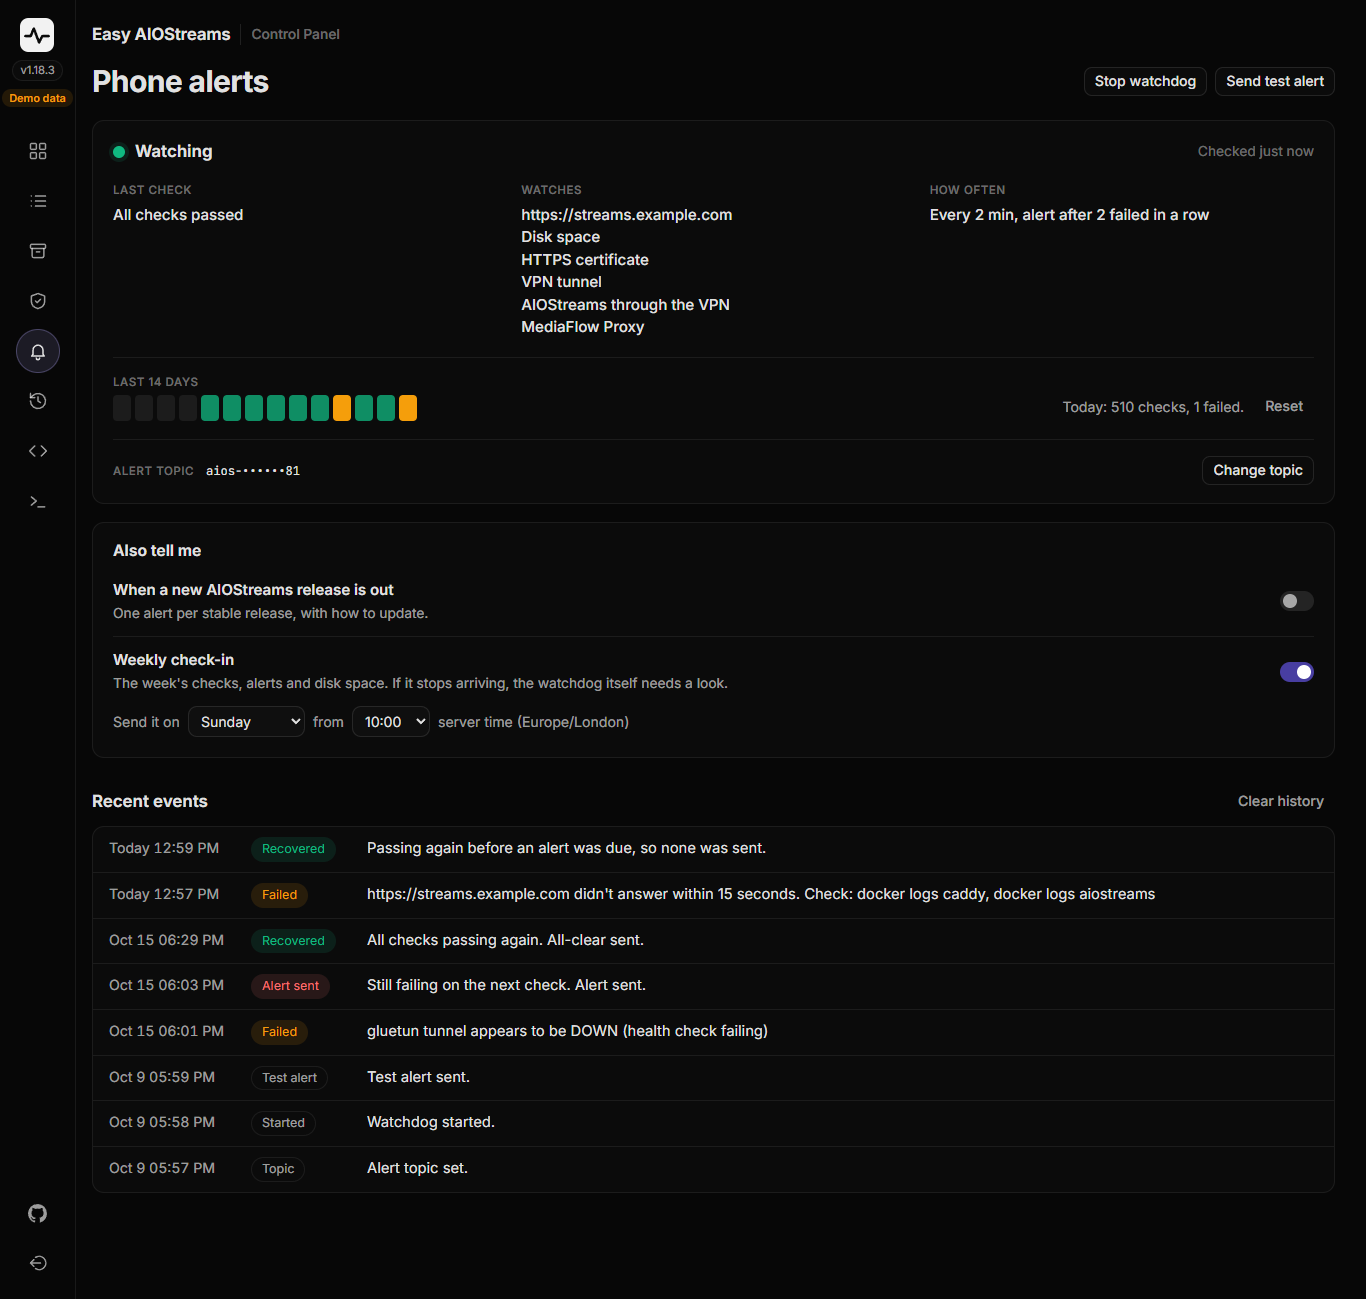
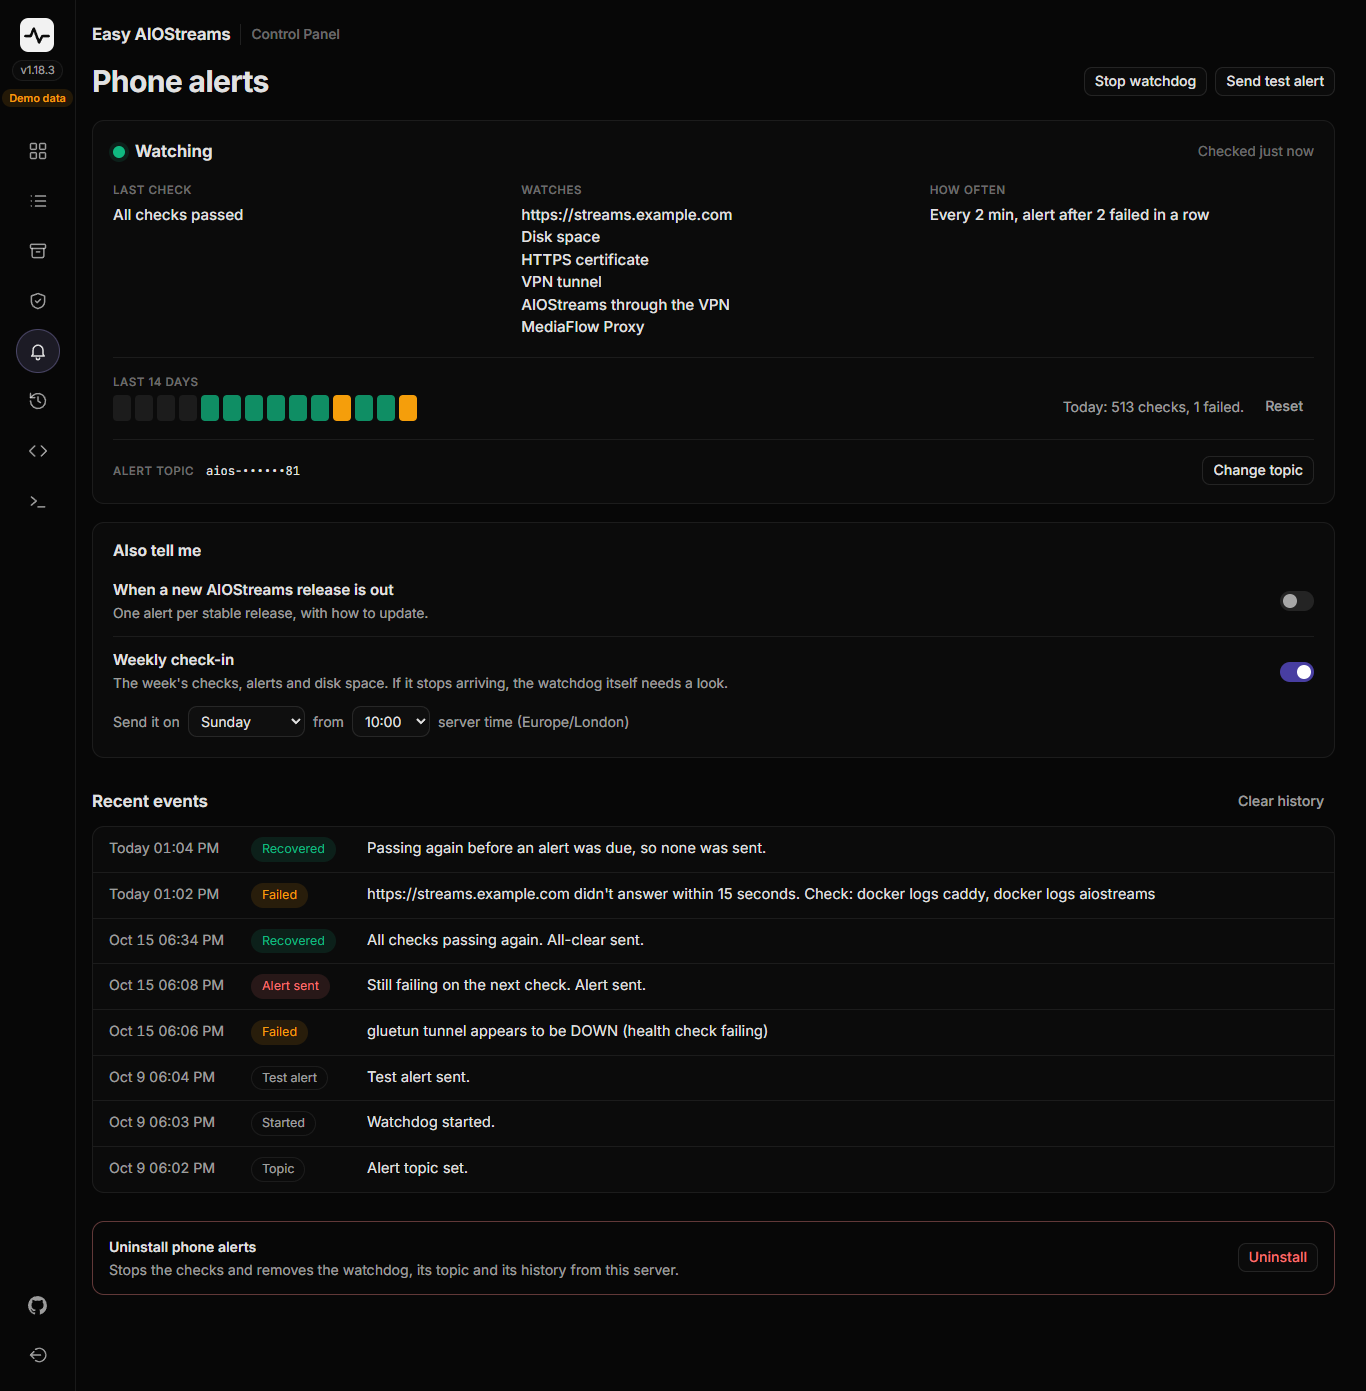
Uninstall phone alerts from the panel (panel 1.18.4)
setup-watchdog.sh gains a question-free 'uninstall' (menu option 6
without its y/N, sharing the same removal), and the Phone alerts page an
"Uninstall phone alerts" box at its foot, like the VPN page's, which
asks first. Afterwards the page leaves the rail and the Scripts tab
offers Remove for the script. Docs and alerts.png updated.

diff --git a/control-panel/web/js/alerts.js b/control-panel/web/js/alerts.js
@@ -152,6 +152,14 @@ function render(w) {
     w.events.length ? list : h("p", { class: "dim", text: "Nothing yet. Failed checks, alerts and recoveries show here." }));
   if (w.events.length > 12 && !showAll) box.append(h("button", { class: "btn small quiet", type: "button", text: `Show all ${w.events.length}`,
     onclick: () => { showAll = true; render(last); } }));
+  // Uninstall at the foot of the page, like the VPN page's
+  const un = actFor("watchdog.uninstall");
+  if (un) {
+    box.append(h("div", { class: "vpn-remove" },
+      h("div", {}, h("div", { class: "vpn-remove-title", text: "Uninstall phone alerts" }),
+        h("div", { class: "dim", text: "Stops the checks and removes the watchdog, its topic and its history from this server." })),
+      h("button", { class: "btn small danger", type: "button", text: "Uninstall", disabled: !!(st && st.busy), onclick: () => runAction(un) })));
+  }
 }
 
 // The check-in goes by the server's clock, so say which zone that is. A server

diff --git a/control-panel/web/js/actions.js b/control-panel/web/js/actions.js
@@ -101,7 +101,7 @@ export async function runAction(act, params) {
     if (res.channel && res.channel === channelNow) res.channel = null;
     params = res;
   } else if (act.confirm) {
-    const ok = await ask({ title: `${act.label}?`, body: act.confirm, confirmLabel: act.label, danger: /stop|forget|delete/i.test(act.id) });
+    const ok = await ask({ title: `${act.label}?`, body: act.confirm, confirmLabel: act.label, danger: /stop|forget|delete|uninstall/i.test(act.id) });
     if (!ok) return;
   }
   try {

diff --git a/control-panel/app/demo.py b/control-panel/app/demo.py
@@ -71,6 +71,7 @@ class DemoBackend:
         self.has_config = True
         self.removed_scripts: set[str] = set()
         self.wd_running = True
+        self.wd_configured = True
         self.wd_options = {"updates": False, "weekly": False, "weekly_day": 7, "weekly_hour": 10}
         self.wd_topic = "aios-7f3k29xq81"
         now = time.time()
@@ -147,6 +148,8 @@ class DemoBackend:
 
     def watchdog_info(self) -> dict:
         from .stack import mask_topic
+        if not self.wd_configured:
+            return {"configured": False}
         watches = ["https://streams.example.com", "Disk space", "HTTPS certificate"] + (["VPN tunnel", "AIOStreams through the VPN"] if self.vpn == "on" else []) + ["MediaFlow Proxy"]
         return {"configured": True, "running": self.wd_running, "alert_state": "up", "fails": 0,
                 "warnings": [w for w in os.environ.get("UI_DEMO_WD_WARN", "").split(",") if w],
@@ -162,7 +165,7 @@ class DemoBackend:
         found = next(((i, f) for i, _, f in SCRIPTS if i == script_id), None)
         if not found or script_id not in ADDON_STATE:
             raise ValueError("Only an add-on's script can be removed.")
-        if script_id == "vpn" and self.vpn != "none":
+        if (script_id == "vpn" and self.vpn != "none") or (script_id == "watchdog" and self.wd_configured):
             raise ValueError("It's still set up. Uninstall it with its own menu first.")
         self.removed_scripts.add(script_id)
         return found[1]
@@ -222,8 +225,8 @@ class DemoBackend:
             "vpn": self.vpn, "install_dir": "/opt/aiostreams", "user_copy": self.user_copy(),
             "scripts": [{"id": i, "label": l, "file": f,
                          "present": i in ("aiostreams", "vpn", "mediaflow", "watchdog", "webhook") and i not in self.removed_scripts,
-                         "in_use": i != "vpn" or self.vpn != "none"} for i, l, f in SCRIPTS], "overall": overall, "headline": headline, "services": services,
-            "watchdog": {"configured": True, "running": self.wd_running, "alert_state": "up",
+                         "in_use": (i != "vpn" or self.vpn != "none") and (i != "watchdog" or self.wd_configured)} for i, l, f in SCRIPTS], "overall": overall, "headline": headline, "services": services,
+            "watchdog": {"configured": self.wd_configured, "running": self.wd_running, "alert_state": "up",
                          "last_check": time.strftime("%d %b %Y, %H:%M:%S UTC", time.gmtime(time.time() - 40)) + (" OK" if self.wd_running else "")},
             "host": {"cpus": 2, "load": [0.21, 0.34, 0.29], "mem_total": 4 * GB, "mem_used": int(1.6 * GB),
                      "uptime": 41 * 86400 + 3 * 3600, "disk_total": 80 * GB, "disk_used": 23 * GB},
@@ -378,6 +381,10 @@ class DemoBackend:
             self.vpn_host, self.vpn_ip, self.has_config = host, ip, True
             if action.args[-1] == "on":
                 self.vpn = "on"
+        elif action.id == "watchdog.uninstall":
+            say("Removed the watchdog's timer, services and saved state.", 0.4)
+            self.wd_configured = False
+            self.wd_running = False
         elif action.id in ("watchdog.start", "watchdog.stop", "watchdog.test", "watchdog.topic"):
             if action.id == "watchdog.topic":
                 self.wd_topic = action.stdin.strip()

diff --git a/control-panel/tests/test_app.py b/control-panel/tests/test_app.py
@@ -498,3 +498,17 @@ def test_phone_alerts_switches(client):
     assert client.get("/api/watchdog").json()["options"] == {"updates": False, "weekly": True, "weekly_day": 1, "weekly_hour": 0}
     assert client.post("/api/watchdog/tally/clear").json() == {"cleared": True}
     assert client.get("/api/watchdog").json()["tally"] == []
+
+
+def test_phone_alerts_uninstall_then_its_script_can_go(client):
+    login(client)
+    a = actions.resolve("watchdog.uninstall")
+    assert a.args == ("uninstall",) and a.confirm
+    assert client.post("/api/scripts/watchdog/remove").status_code == 400          # still set up
+    r = client.post("/api/actions/watchdog.uninstall", json={"params": {}})
+    assert r.status_code == 200 and wait_job(client, r.json()["id"])["code"] == 0
+    assert client.get("/api/watchdog").json() == {"configured": False}
+    assert client.get("/api/status").json()["watchdog"]["configured"] is False
+    wd = next(s for s in client.get("/api/status").json()["scripts"] if s["id"] == "watchdog")
+    assert wd["present"] and wd["in_use"] is False
+    assert client.post("/api/scripts/watchdog/remove").json() == {"removed": "setup-watchdog.sh"}

diff --git a/control-panel/app/actions.py b/control-panel/app/actions.py
@@ -94,6 +94,12 @@ _STATIC: dict[str, Action] = {a.id: a for a in [
     Action("watchdog.test", "Send test alert", "Sending", "Test alert sent", "setup-watchdog.sh",
            args=("test",), timeout=60,
            needs=("setup-watchdog.sh", "watchdog-state/config")),
+    Action("watchdog.uninstall", "Uninstall phone alerts", "Uninstalling phone alerts", "Phone alerts uninstalled", "setup-watchdog.sh",
+           args=("uninstall",), timeout=60,
+           confirm="Stops the checks and removes the watchdog's timer, its restart alert, and everything it saved: "
+                   "the topic, the event history and the daily stats. Your subscription in the ntfy app isn't touched; "
+                   "unsubscribe there if you won't set it up again. Setting it up again is the script's Start, over SSH.",
+           needs=("setup-watchdog.sh", "watchdog-state/config")),
 ]}
 
 

diff --git a/docs/basic/control-panel.md b/docs/basic/control-panel.md
@@ -91,7 +91,7 @@ The pages are icons down the left; point at one to see its name. On a phone it a
 
 ![The VPN page, with the configs on this server](../images/control-panel/vpn.png)
 
-**Phone alerts (once you've set up the [watchdog](./watchdog.md)).** Whether it's watching, the last check and what it watches, a square per day for the last 14 days (green all passed, amber some failed) with **Reset**, and recent events (failures, alerts, recoveries, restarts) with **Clear history**. **Start/Stop watchdog** and **Send test alert** sit at the top. **Change topic** suggests a new topic with a **Copy** button for the ntfy app, and sends a test alert to it as soon as it's saved; the topic itself is only ever shown masked. **Also tell me** has two switches, off to start with: an alert when a new AIOStreams release is out, and a weekly check-in on the day and hour you pick (by the server's clock, whose time zone it names). Tapping an alert on your phone opens this page.
+**Phone alerts (once you've set up the [watchdog](./watchdog.md)).** Whether it's watching, the last check and what it watches, a square per day for the last 14 days (green all passed, amber some failed) with **Reset**, and recent events (failures, alerts, recoveries, restarts) with **Clear history**. **Start/Stop watchdog** and **Send test alert** sit at the top. **Change topic** suggests a new topic with a **Copy** button for the ntfy app, and sends a test alert to it as soon as it's saved; the topic itself is only ever shown masked. **Also tell me** has two switches, off to start with: an alert when a new AIOStreams release is out, and a weekly check-in on the day and hour you pick (by the server's clock, whose time zone it names). Tapping an alert on your phone opens this page. At the foot, **Uninstall phone alerts** removes the watchdog altogether (after a confirm), like the script's Uninstall; the page goes, and the Scripts tab then offers **Remove** for its script.
 
 ![The Phone alerts page: status, the last 14 days, the optional alerts and recent events](../images/control-panel/alerts.png)
 

diff --git a/docs/advanced/control-panel.md b/docs/advanced/control-panel.md
@@ -55,6 +55,7 @@ It is still root-equivalent on your server, because it has to run the scripts an
 | Back up now | `setup-aiostreams.sh backup` |
 | MediaFlow, webhook relay | `start-mediaflow`, `start-relay`, and menu option 3 for Stop |
 | Phone alerts: Start, Stop, Send test alert | `setup-watchdog.sh install-timer`, menu option 3, `test` |
+| Phone alerts: Uninstall | `setup-watchdog.sh uninstall` (menu option 6 without its question; the panel asks first) |
 | Phone alerts: Change topic | `setup-watchdog.sh set-topic`, with the topic on stdin (never on a command line or in Activity), then a test alert to it |
 | Phone alerts: the switches, the check-in's day and hour, Reset, Clear history | written straight to `watchdog-state/options`, `tally` and `events` (the script's `set-option` does the same over SSH) |
 | Turn VPN on, Turn VPN off | `setup-vpn-gluetun.sh on`, `off` (the same steps as its menu options 2 and 3) |

diff --git a/docs/advanced/watchdog.md b/docs/advanced/watchdog.md
@@ -140,4 +140,4 @@ Use **4) Send test alert** for pure delivery testing any time. To test full dete
 
 ## Removing it
 
-Run `sudo bash /opt/aiostreams/setup-watchdog.sh` → **6) Uninstall**. That stops and removes the systemd timer and services and all saved state (including your ntfy topic). Nothing about the other scripts is affected. Uninstalling AIOStreams itself with `setup-aiostreams.sh` also removes the watchdog automatically.
+Run `sudo bash /opt/aiostreams/setup-watchdog.sh` → **6) Uninstall**, or use **Uninstall phone alerts** at the foot of the control panel's Phone alerts page. That stops and removes the systemd timer and services and all saved state (including your ntfy topic). Nothing about the other scripts is affected. Uninstalling AIOStreams itself with `setup-aiostreams.sh` also removes the watchdog automatically.

diff --git a/docs/basic/watchdog.md b/docs/basic/watchdog.md
@@ -67,7 +67,7 @@ The check-in goes by the server's clock, so check its time zone: `timedatectl` s
 
 ## Everyday use
 
-The control panel's **Phone alerts** page shows whether it's watching, the last check, a square per day for the last 14 days (green all passed, amber some failed), and recent events. It has Start/Stop, Send test alert, Change topic (with a Copy button, to paste into the ntfy app) and the two switches above.
+The control panel's **Phone alerts** page shows whether it's watching, the last check, a square per day for the last 14 days (green all passed, amber some failed), and recent events. It has Start/Stop, Send test alert, Change topic (with a Copy button, to paste into the ntfy app), the two switches above, and Uninstall at the foot.
 
 ![The control panel's Phone alerts page](../images/control-panel/alerts.png)
 
